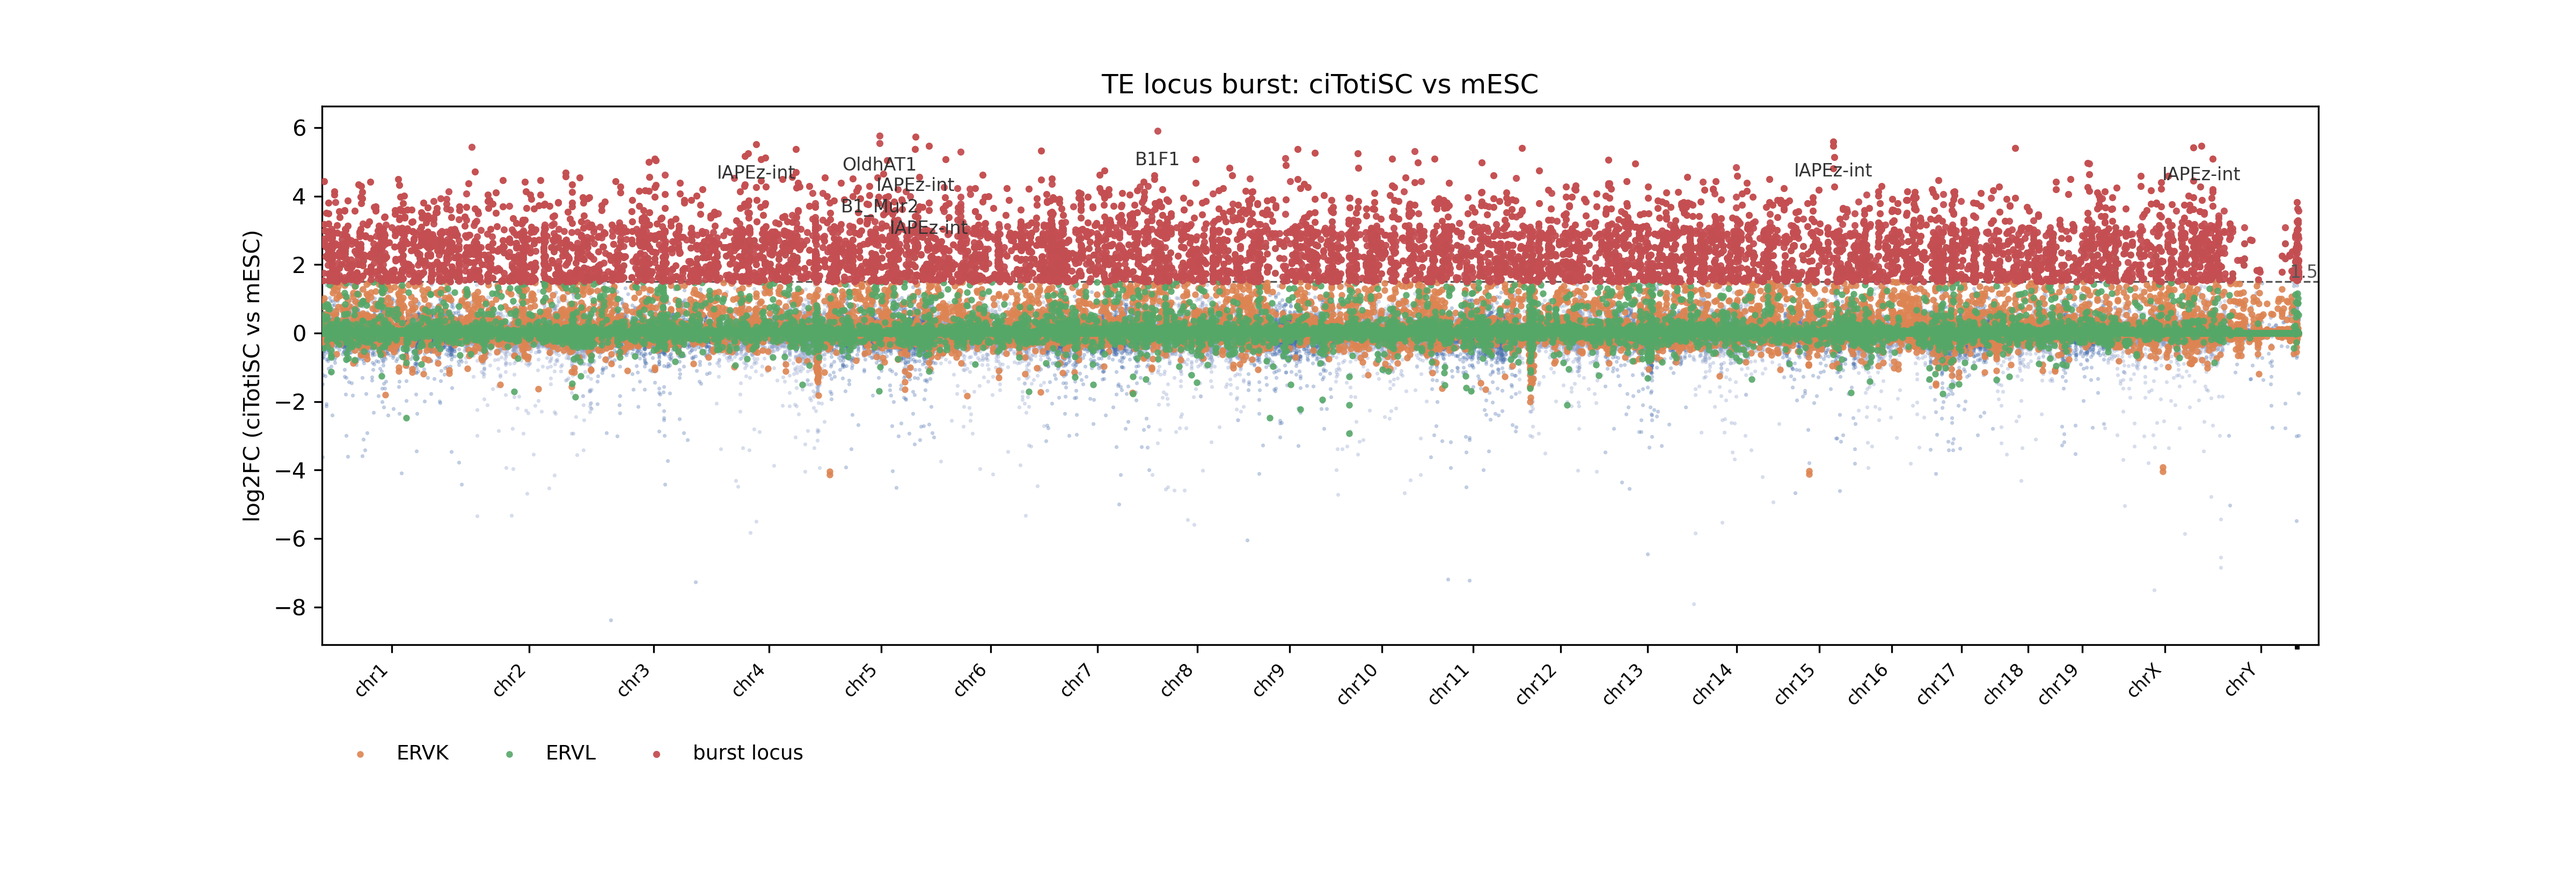
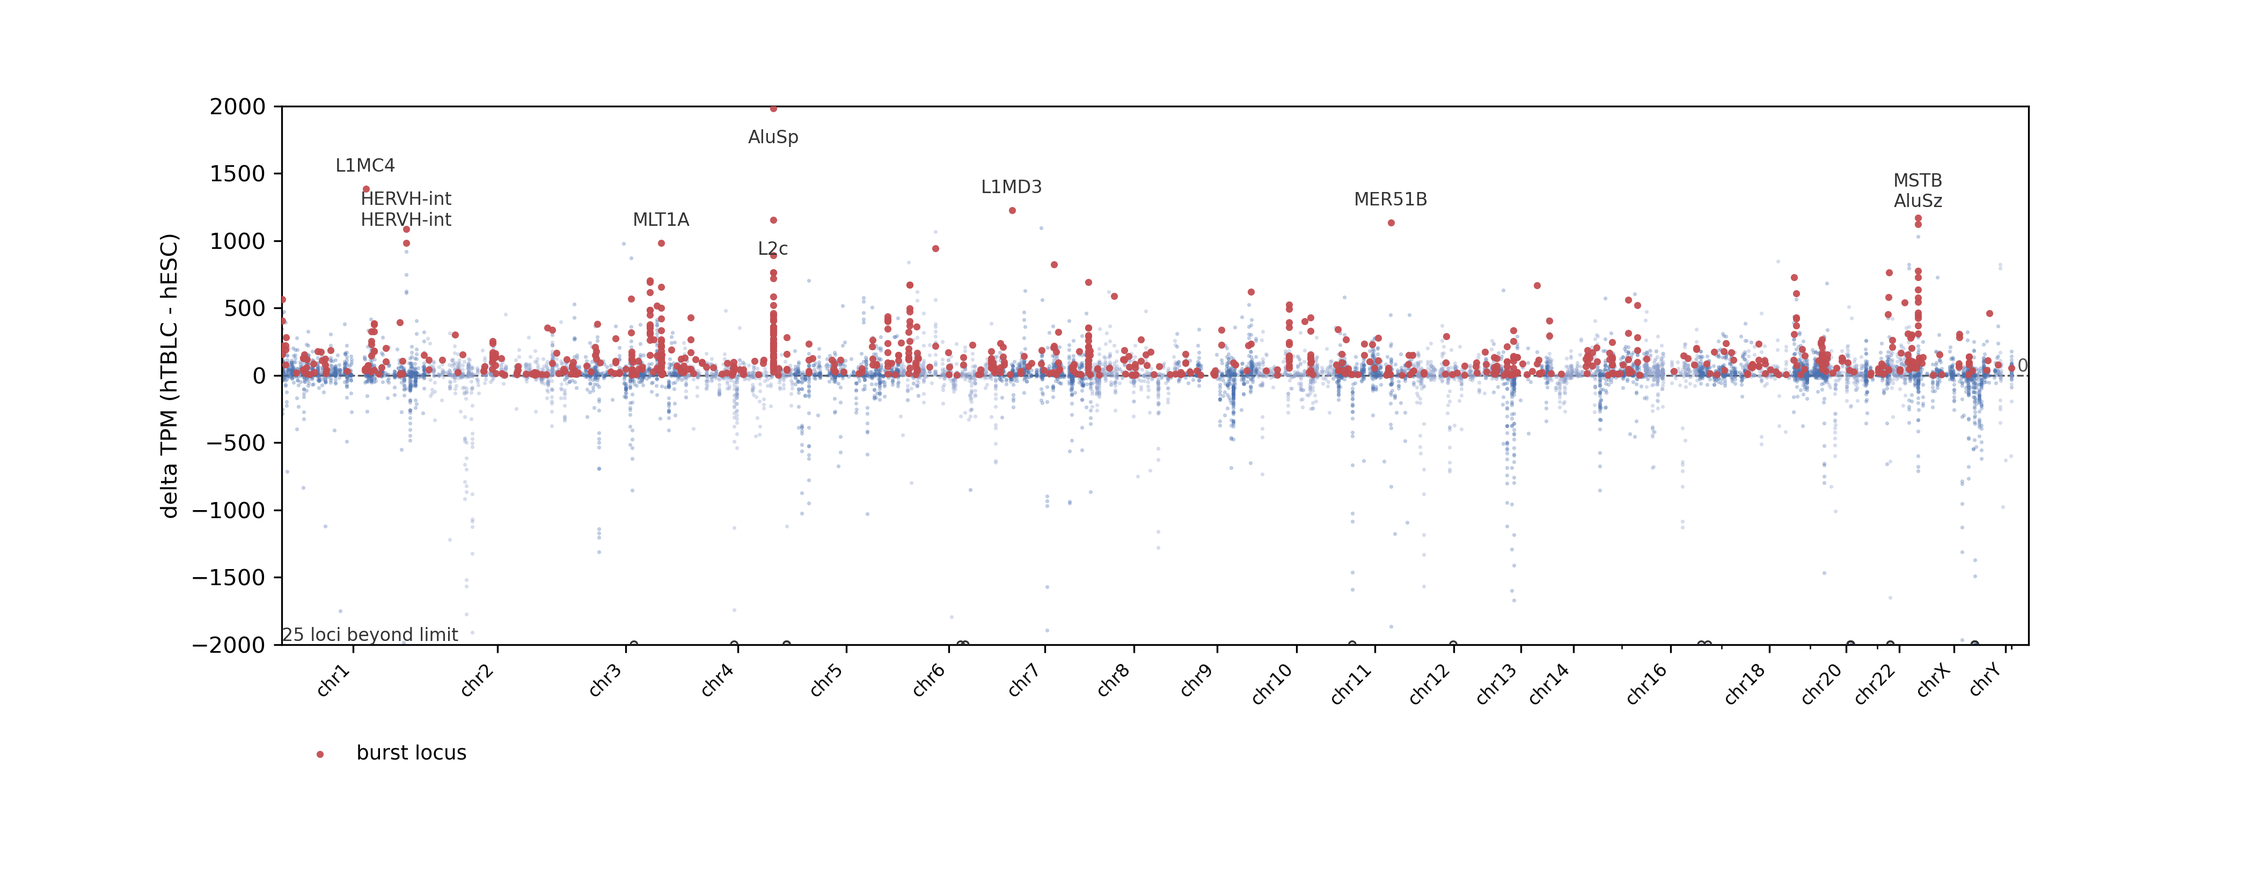
fix(DESeq2): TElocal mode produces Gene/TE/Gene_TE outputs; te_manhattan --ylim + delta-TPM example
- DESeq2.r: TEcount/TElocal main branches unified; TElocal_read returns
  Gene/TE/Gene_TE via TEcount_read(te_pattern=...); TEFilter pattern param
- DESeq2.smk: DESeq2_TElocal rule outputs/labels use TElocal tag, -m TElocal
- TEtranscripts.smk: combine_TElocal gtf input + geneId2Name annotate step
- te_manhattan.py: --ylim with boundary-pinned hollow markers
- example_manhattan.png regenerated (hESC_vs_hTBLC delta TPM)

diff --git a/src/TE/te_manhattan.py b/src/TE/te_manhattan.py
@@ -601,6 +601,7 @@ def plot_manhattan(
     label_top: int = 0,
     hlines: Optional[List[float]] = None,
     chrom_order: Optional[str] = None,
+    ylim: Optional[Tuple[float, float]] = None,
 ) -> None:
     """Render the genome-wide TE locus Manhattan plot.
 
@@ -644,6 +645,11 @@ def plot_manhattan(
         Horizontal reference lines (e.g. ``[1, -1]``).
     chrom_order : str, optional
         Unused here (order precomputed); kept for CLI symmetry.
+    ylim : Tuple[float, float], optional
+        Fixed y axis limits ``(ymin, ymax)``. Loci beyond the limits
+        are drawn as hollow markers pinned to the boundary (clipped,
+        not dropped) with a count note at each boundary. Default is
+        ``None`` (matplotlib autoscale).
 
     Returns
     -------
@@ -651,6 +657,26 @@ def plot_manhattan(
     """
     if image_formats is None:
         image_formats = ["png"]
+
+    if ylim is not None:
+        y_min, y_max = float(ylim[0]), float(ylim[1])
+        if y_min >= y_max:
+            raise ValueError(f"ylim must be (ymin, ymax) with ymin < ymax, got {ylim}")
+        out_of_range = loci[(loci["value"] < y_min) | (loci["value"] > y_max)]
+        loci = loci.copy()
+        if len(out_of_range):
+            logger.info(
+                f"y axis clipped to [{y_min:g}, {y_max:g}]: {len(out_of_range)} loci "
+                "pinned to the boundary as hollow markers"
+            )
+            loci["value"] = loci["value"].clip(lower=y_min, upper=y_max)
+            loci["is_pinned"] = loci.index.isin(out_of_range.index)
+        else:
+            loci["is_pinned"] = False
+    else:
+        y_min = y_max = 0.0  # sentinel; only referenced under `ylim is not None`
+        loci = loci.copy()
+        loci["is_pinned"] = False
 
     n_highlight_families = loci.loc[loci["is_highlight"], "family"].nunique() if "is_highlight" in loci else 0
     has_legend = bool(loci["is_burst"].any()) or n_highlight_families > 0
@@ -698,6 +724,30 @@ def plot_manhattan(
             alpha=0.95, linewidths=0, zorder=4, label="burst locus",
         )
         legend_handles.append(handle)
+
+    if ylim is not None and loci["is_pinned"].any():
+        pinned = loci[loci["is_pinned"]]
+        ax.scatter(
+            pinned["xpos"], pinned["value"], s=highlight_size, facecolors="none",
+            edgecolors="#333333", linewidths=0.8, zorder=5,
+        )
+        n_below = int((loci["value"] <= y_min).sum())
+        n_above = int((loci["value"] >= y_max).sum())
+        for note_y, note_n, va in (
+            (y_min, n_below, "bottom"),
+            (y_max, n_above, "top"),
+        ):
+            if note_n > 0:
+                ax.annotate(
+                    f"{note_n} loci beyond limit",
+                    xy=(0.0, note_y),
+                    xycoords=("axes fraction", "data"),
+                    ha="left", va=va, fontsize=8, color="#333333",
+                    annotation_clip=False, zorder=6,
+                )
+
+    if ylim is not None:
+        ax.set_ylim(y_min, y_max)
 
     centers = loci.groupby("chrom")["chrom_center"].first()
     ax.set_ylabel(ylabel)
@@ -797,6 +847,9 @@ def build_parser() -> argparse.ArgumentParser:
                         help="Label the N marked loci (burst+highlight) with largest |value|. Keep <= 30.")
     parser.add_argument("--hline", action="append", type=float, dest="hlines",
                         metavar="Y", help="Horizontal reference line. Repeatable.")
+    parser.add_argument("--ylim", default=None, metavar="YMIN,YMAX",
+                        help="Fixed y axis limits. Loci beyond the limits are drawn "
+                             "pinned to the boundary as hollow markers.")
     parser.add_argument("--chrom-order", default=None,
                         help="Chromosome order: file (one per line) or comma list.")
     parser.add_argument("--ylabel", default="value", help="Y axis label.")
@@ -874,6 +927,8 @@ def main(argv: Optional[List[str]] = None) -> None:
         label_top=args.label_top,
         hlines=args.hlines,
         chrom_order=args.chrom_order,
+        ylim=(float(args.ylim.split(",")[0]), float(args.ylim.split(",")[1]))
+        if args.ylim else None,
     )
 
 
